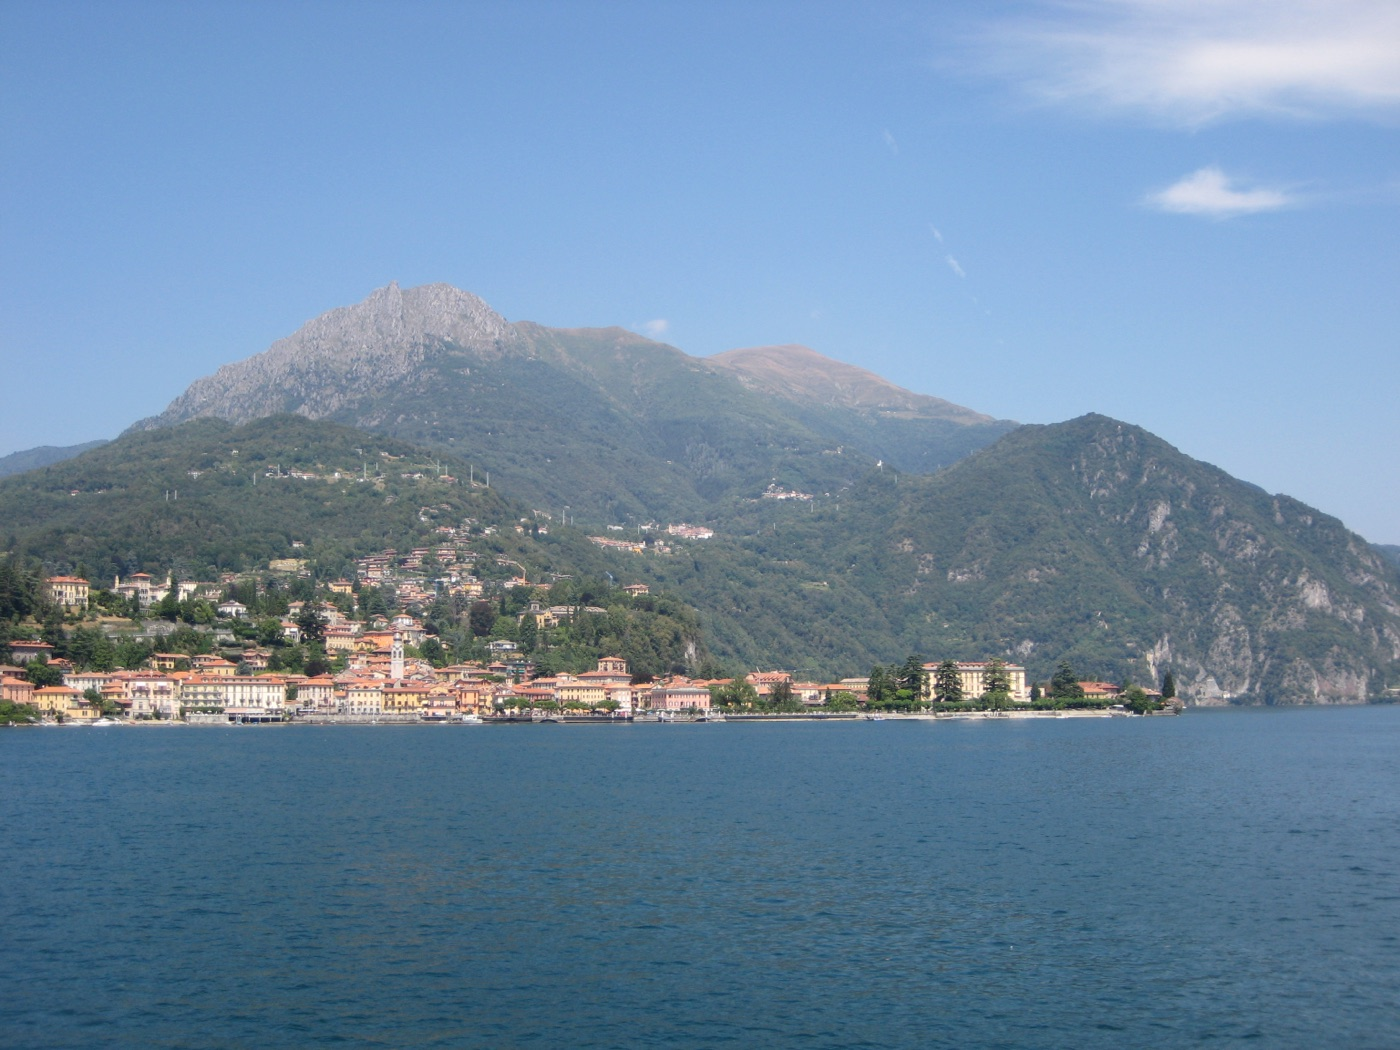
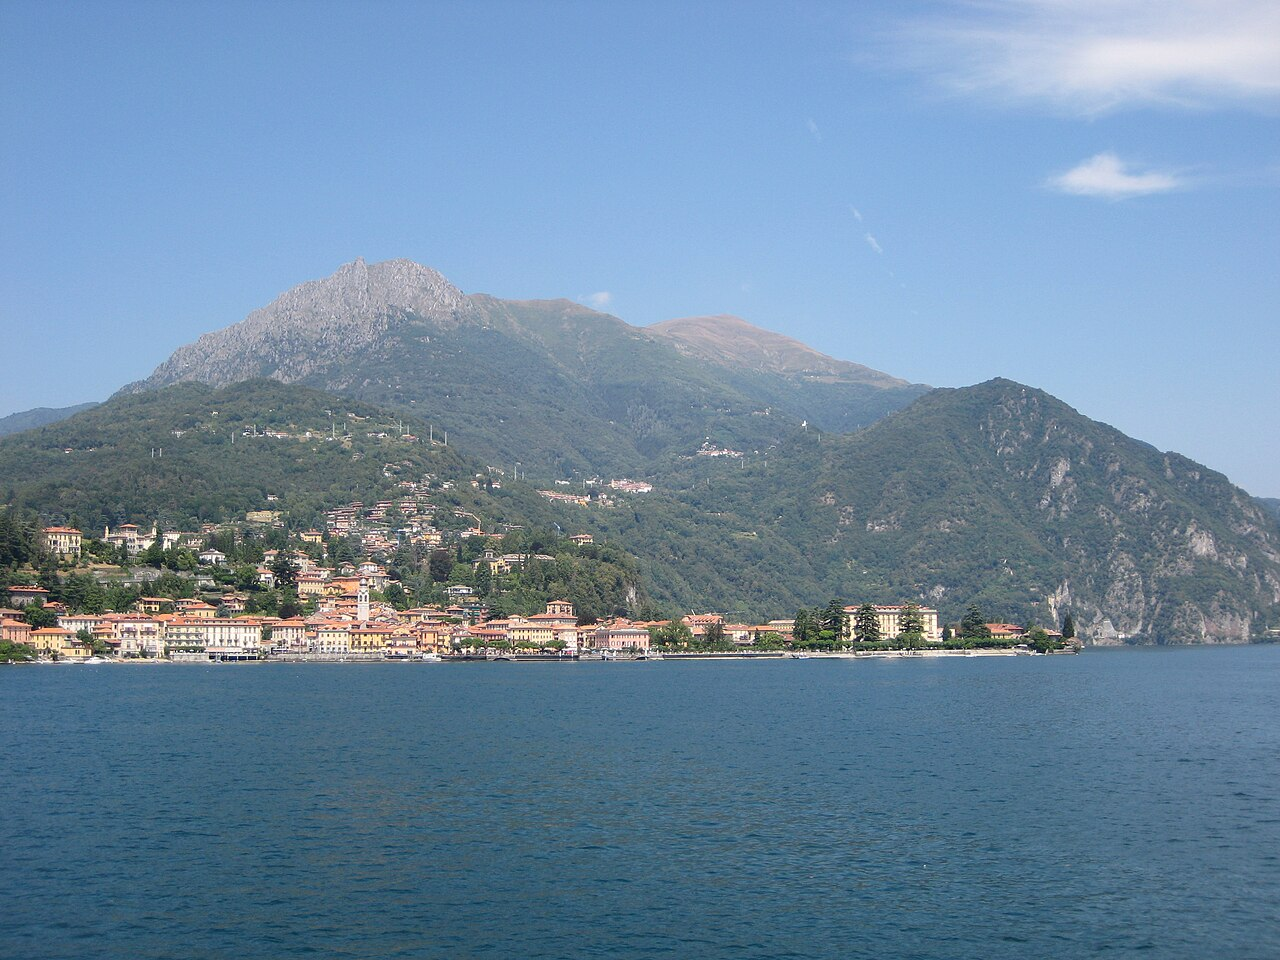
4th experience · attraction photos · drop eyebrow labels · auto-scroll fix
Experiences:
- Added 4th item "Private boat tours" across all 4 locales (matches
  the 4-item carousel on the legacy comoboatrental.it). Added the
  4th photo from /images/experiences/private-tours.jpg.
- Grid is now repeat(4, 1fr) on desktop, repeat(2, 1fr) ≤1100px,
  1fr ≤540px. On phones the .exp-img is capped to aspect-ratio
  16/10 and max-height 220px so full-width 4:3 doesn't overwhelm
  the viewport.

Attraction photos (Wikimedia Commons, 1280px thumbs):
- bellagio.jpg — Sentiero del Viandante (Bellagio from above)
- villa-del-balbianello.jpg — proper Balbianello facade from the water
- argegno.jpg — Argegno panorama (was missing entirely)
- menaggio.jpg — refreshed Menaggio lakefront
- villa-oleandra.jpg — Laglio from Lake Como ferry (the moltrasio-
  laglio attraction; Clooney's Villa Oleandra is in Laglio)
- attractions.ts pointed at the new paths; destinations list now
  falls back to /images/attractions/{pinId}.jpg for pins that don't
  have an attraction page (Argegno).
- CREDITS.md extended with the five new entries.

Section-head index labels removed from the homepage:
- "(01) — Tours", "(02) — Explore the Lake", "(04) — Fleet",
  "(05) — Beyond a Tour", "(06) — Guests" no longer rendered.
- Instagram strip gains a plain "Instagram" h3 in place of the
  "(07) — Follow" eyebrow.
- The indexLabel strings stay in translations for inner pages /
  potential future use; the homepage just stops rendering them.

Destination-list auto-scroll fix:
[…]

diff --git a/app/components/HomePage.tsx b/app/components/HomePage.tsx
@@ -48,12 +48,13 @@ const FLEET_IMGS = ["/images/taxi-boat.jpg", "/images/luxury-caddy.jpg"];
 
 // Experience photos for the "Beyond a Tour" strip — pulled from the
 // legacy comoboatrental.it (under "OUR BOAT EXPERIENCES"). One photo
-// per item; order matches the items in t.experiences.items
-// (weddings → photoshoot → captains).
+// per item; order matches t.experiences.items
+// (weddings → photoshoots → captains → private-tours).
 const EXPERIENCE_IMGS = [
   "/images/experiences/weddings.jpg",
   "/images/experiences/photoshoots.jpg",
   "/images/experiences/captains.jpg",
+  "/images/experiences/private-tours.jpg",
 ];
 
 import instagramManifest from "../../public/instagram-feed.json";
@@ -616,18 +617,40 @@ export default function HomePage({ locale }: { locale: Locale }) {
   }, [locale]);
 
   // When the user is hovering pin-list / attractions, smoothly scroll the
-  // destinations list so the card matching the active pin is centered
-  // vertically. We only auto-scroll the list container (not the page).
+  // destinations list — auto-scroll the active card into view ONLY
+  // when the activation came from the map (pin hover/click), not when
+  // it came from hovering the list itself. Without that guard every
+  // tiny hover over the list re-triggers a scrollBy and the list
+  // jumps around under the cursor.
+  //
+  // We also gate on a deadband: ignore deltas smaller than ~25% of
+  // the container height so a card that's already comfortably in
+  // view doesn't trigger scrolling.
+  const activatedFromMapRef = useRef(false);
   useEffect(() => {
-    if (!userInteracting || !destListRef.current) return;
+    if (!activatedFromMapRef.current || !destListRef.current) return;
+    activatedFromMapRef.current = false;
     const container = destListRef.current;
     const card = container.querySelector<HTMLElement>(`[data-pin-id="${activePin}"]`);
     if (!card) return;
     const containerRect = container.getBoundingClientRect();
     const cardRect = card.getBoundingClientRect();
+    // Only scroll if the card is more than 25% out of the visible
+    // window — that way a card already mostly visible doesn't jump.
+    const isAbove = cardRect.top < containerRect.top + 8;
+    const isBelow = cardRect.bottom > containerRect.bottom - 8;
+    if (!isAbove && !isBelow) return;
     const delta = (cardRect.top + cardRect.height / 2) - (containerRect.top + containerRect.height / 2);
     container.scrollBy({ top: delta, behavior: "smooth" });
-  }, [activePin, userInteracting]);
+  }, [activePin]);
+
+  // Wrap setActivePin so callers can mark "this came from the map"
+  // explicitly. Map markers / pin clicks call setActivePinFromMap,
+  // hover-from-list calls setActivePin directly with no auto-scroll.
+  const setActivePinFromMap = (id: string) => {
+    activatedFromMapRef.current = true;
+    setActivePin(id);
+  };
 
   const fromLabel = locale === "en" ? "From" : locale === "it" ? "Da" : locale === "ru" ? "От" : "من";
 
@@ -729,7 +752,6 @@ export default function HomePage({ locale }: { locale: Locale }) {
         <div className="container-x">
           <div className="section-head reveal">
             <div className="label">
-              <span className="eyebrow">{t.tours.indexLabel}</span>
               <p className="lead">{t.tours.lead}</p>
             </div>
             <div className="title">
@@ -769,7 +791,6 @@ export default function HomePage({ locale }: { locale: Locale }) {
         <div className="container-x">
           <div className="section-head reveal" style={{ marginBottom: 36 }}>
             <div className="label">
-              <span className="eyebrow">{t.explore.indexLabel}</span>
               <p className="lead">{t.explore.lead}</p>
             </div>
             <div className="title">
@@ -827,7 +848,7 @@ export default function HomePage({ locale }: { locale: Locale }) {
                     <LakeComoMap
                       pins={t.map.pins}
                       activeId={activePin}
-                      onActivate={setActivePin}
+                      onActivate={setActivePinFromMap}
                       sectionRef={mapSectionRef}
                       userInteracting={userInteracting}
                     />
@@ -848,7 +869,10 @@ export default function HomePage({ locale }: { locale: Locale }) {
                       const a = attractions.find((x) => x.pinId === pin.id);
                       const href = a ? localePath(locale, `/attractions/${a.slug}`) : "#";
                       const blurb = a?.copy[locale].blurb ?? pin.note;
-                      const thumb = a?.image;
+                      // Fall back to pin-id-based filename for pins
+                      // that don't have an attraction page yet (e.g.
+                      // Argegno) — keeps every card thumbnailed.
+                      const thumb = a?.image ?? `/images/attractions/${pin.id}.jpg`;
                       return (
                         <a
                           key={pin.id}
@@ -892,7 +916,6 @@ export default function HomePage({ locale }: { locale: Locale }) {
         <div className="container-x">
           <div className="section-head reveal">
             <div className="label">
-              <span className="eyebrow">{t.fleet.indexLabel}</span>
               <p className="lead">{t.fleet.lead}</p>
             </div>
             <div className="title">
@@ -938,7 +961,6 @@ export default function HomePage({ locale }: { locale: Locale }) {
       <section className="experiences experiences-condensed" id="experiences">
         <div className="container-x">
           <div className="exp-condensed-head reveal">
-            <span className="eyebrow">{t.experiences.indexLabel}</span>
             <h2 className="display"><RichText text={t.experiences.title} /></h2>
           </div>
           <div className="exp-row">
@@ -967,7 +989,6 @@ export default function HomePage({ locale }: { locale: Locale }) {
         <div className="container-x">
           <div className="section-head reveal" style={{ marginBottom: 36 }}>
             <div className="label">
-              <span className="eyebrow">{t.testimonials.indexLabel}</span>
               <p className="lead">{t.testimonials.lead}</p>
             </div>
             <div className="title">
@@ -1008,7 +1029,7 @@ export default function HomePage({ locale }: { locale: Locale }) {
       <section className="instagram instagram-strip" id="instagram">
         <div className="container-x">
           <div className="ig-strip-head reveal">
-            <span className="eyebrow">{t.instagram.indexLabel}</span>
+            <h3 className="ig-strip-title">Instagram</h3>
             <a className="ig-strip-cta" href={INSTAGRAM_URL} target="_blank" rel="noopener noreferrer">
               {t.instagram.cta} <span className="arrow">→</span>
             </a>

diff --git a/app/translations.ts b/app/translations.ts
@@ -402,6 +402,7 @@ export const translations: Record<Locale, Translation> = {
         { title: "Weddings & special occasions",  desc: "Weddings, proposals, anniversaries by boat. Champagne on board and bespoke service for unforgettable moments on the water." },
         { title: "Photoshoots & productions",     desc: "Editorial, wedding and commercial shoots aboard our wooden boats, Villa d'Este, Villa Balbianello, golden hour on the lake." },
         { title: "Local captains as concierges",  desc: "Certified, multilingual captains who know the lake like a backyard, restaurant tips, hidden coves, perfect timing with the wind." },
+        { title: "Private boat tours",            desc: "Half-day and full-day private charters on classic wooden boats. Bellagio, Balbianello, Varenna at your own pace, with a captain who knows every cove." },
       ],
     },
     testimonials: {
@@ -646,6 +647,7 @@ export const translations: Record<Locale, Translation> = {
         { title: "Matrimoni e occasioni speciali", desc: "Matrimoni, proposte, anniversari in barca. Champagne a bordo e servizio personalizzato per momenti indimenticabili sull'acqua." },
         { title: "Servizi fotografici e produzioni", desc: "Riprese editoriali, di matrimonio e commerciali a bordo delle nostre barche in legno, Villa d'Este, Villa Balbianello, ora dorata sul lago." },
         { title: "Skipper come concierge",         desc: "Skipper certificati e multilingue che conoscono il lago come il proprio giardino, consigli ristoranti, calette nascoste, tempi perfetti con il vento." },
+        { title: "Tour privati in barca",          desc: "Charter privati di mezza giornata o giornata intera su barche classiche in legno. Bellagio, Balbianello, Varenna al tuo ritmo, con uno skipper che conosce ogni caletta." },
       ],
     },
     testimonials: {
@@ -890,6 +892,7 @@ export const translations: Record<Locale, Translation> = {
         { title: "Свадьбы и особые случаи",   desc: "Свадьбы, предложения, юбилеи на лодке. Шампанское на борту и индивидуальный сервис для незабываемых моментов на воде." },
         { title: "Фотосъёмки и производство", desc: "Редакционные, свадебные и коммерческие съёмки на наших деревянных лодках, Вилла д'Эсте, Вилла Бальбьянелло, золотой час на озере." },
         { title: "Капитаны как консьержи",    desc: "Сертифицированные многоязычные капитаны, знающие озеро как свой двор, рестораны, скрытые бухты, идеальное время с ветром." },
+        { title: "Частные туры на лодке",     desc: "Частные чартеры на полдня и целый день на классических деревянных лодках. Белладжо, Бальбьянелло, Варенна в вашем темпе, с капитаном, знающим каждую бухту." },
       ],
     },
     testimonials: {
@@ -1134,6 +1137,7 @@ export const translations: Record<Locale, Translation> = {
         { title: "حفلات الزفاف والمناسبات الخاصة", desc: "حفلات زفاف، طلبات زواج، ذكرى سنوية على القارب. شامبانيا على المتن وخدمة مخصصة للحظات لا تُنسى على الماء." },
         { title: "جلسات التصوير والإنتاج",         desc: "تصوير تحريري وأعراس وتجاري على متن قواربنا الخشبية, فيلا ديستي، فيلا بالبيانيلو، الساعة الذهبية على البحيرة." },
         { title: "قباطنة كأمناء استقبال",          desc: "قباطنة معتمدون يتحدثون عدة لغات يعرفون البحيرة كحديقتهم, توصيات مطاعم، خلجان مخفية، توقيت مثالي مع الريح." },
+        { title: "جولات قارب خاصة",                desc: "تأجير قارب خاص لنصف يوم أو يوم كامل على قوارب خشبية كلاسيكية. بيلاجيو، بالبيانيلو، فارينا بإيقاعك الخاص، مع قبطان يعرف كل خليج." },
       ],
     },
     testimonials: {

diff --git a/app/content/attractions.ts b/app/content/attractions.ts
@@ -159,7 +159,7 @@ export const attractions: Attraction[] = [
   {
     slug: "bellagio",
     pinId: "bellagio",
-    image: "/images/bellagio.jpg",
+    image: "/images/attractions/bellagio.jpg",
     toursThatVisit: ["top-villas-half-day", "bespoke-full-day"],
     copy: {
       en: {
@@ -245,7 +245,7 @@ export const attractions: Attraction[] = [
   {
     slug: "villa-del-balbianello",
     pinId: "balbianello",
-    image: "/images/balbianello.jpg",
+    image: "/images/attractions/villa-del-balbianello.jpg",
     toursThatVisit: ["balbianello-nesso", "top-villas-half-day", "bespoke-full-day"],
     copy: {
       en: {
@@ -846,8 +846,12 @@ export const attractions: Attraction[] = [
   // ─── Moltrasio / Carate Urio / Laglio (Clooney area) ─────────────
   {
     slug: "moltrasio-laglio",
+    // Iconic image for this attraction is George Clooney's Villa
+    // Oleandra on the Laglio waterfront — used to be a generic hero
+    // shot, now a Wikipedia/Commons photo of Laglio from the lake
+    // ferry (CC-BY-SA, credit in /images/attractions/CREDITS.md).
     pinId: "oleandra",
-    image: "/images/hero-1.jpg",
+    image: "/images/attractions/villa-oleandra.jpg",
     toursThatVisit: ["highlights-1h", "balbianello-nesso", "top-villas-half-day", "bespoke-full-day"],
     copy: {
       en: {

diff --git a/app/globals.css b/app/globals.css
@@ -1125,10 +1125,17 @@ html[dir="rtl"] .boat-img .badge { left: auto; right: 18px; }
 }
 .exp-row {
   display: grid;
-  grid-template-columns: repeat(3, 1fr);
-  gap: clamp(28px, 3vw, 48px);
+  grid-template-columns: repeat(4, 1fr);
+  gap: clamp(20px, 2.5vw, 36px);
 }
-@media (max-width: 900px) { .exp-row { grid-template-columns: 1fr; } }
+@media (max-width: 1100px) { .exp-row { grid-template-columns: repeat(2, 1fr); } }
+@media (max-width: 540px)  {
+  .exp-row { grid-template-columns: 1fr; gap: 28px; }
+  /* On phones cap the image height so the experience card stays
+     compact — full-width 4:3 was overwhelming the viewport. */
+  .exp-card .exp-img { aspect-ratio: 16 / 10; max-height: 220px; }
+  .exp-card .exp-img img { object-position: center; }
+}
 .exp-card {
   display: flex;
   flex-direction: column;
@@ -2904,6 +2911,13 @@ html[dir="rtl"] .attr-adj a:hover.prev .arr { transform: translateX(4px); }
   gap: 16px;
   margin-bottom: 20px;
   flex-wrap: wrap;
+}
+.ig-strip-title {
+  font-family: var(--display);
+  font-size: clamp(22px, 2vw, 28px);
+  font-weight: 500;
+  margin: 0;
+  color: var(--ink);
 }
 .ig-strip-cta {
   font-family: var(--mono);

diff --git a/public/images/attractions/CREDITS.md b/public/images/attractions/CREDITS.md
@@ -18,6 +18,10 @@ needed.
 | `nesso.jpg` | [Cascata Nesso, 01.06.2019](https://commons.wikimedia.org/wiki/File:Cascata_Nesso,_01.06.2019_1.jpg) | Wikimedia |
 | `menaggio.jpg` | [Menaggio Lago di Como](https://commons.wikimedia.org/wiki/File:Menaggio_Lago_di_Como.jpg) | Wikimedia |
 | `lecco.jpg` | [19LC12.jpg](https://commons.wikimedia.org/wiki/File:19LC12.jpg) | Wikimedia |
+| `bellagio.jpg` | [Sentiero del Viandante (Bellagio)](https://commons.wikimedia.org/wiki/File:Sentiero_del_Viandante_DSC_6340_(14020554463).jpg) | Wikimedia |
+| `villa-del-balbianello.jpg` | [06VillaBalbianello.jpg](https://commons.wikimedia.org/wiki/File:06VillaBalbianello.jpg) | Wikimedia |
+| `argegno.jpg` | [Argegno-Panorama.JPG](https://commons.wikimedia.org/wiki/File:Argegno-Panorama.JPG) | Wikimedia |
+| `villa-oleandra.jpg` | [Laglio from Lake Como ferry](https://commons.wikimedia.org/wiki/File:Laglio_from_Lake_Como_ferry.jpg) | Wikimedia · *Used for the moltrasio-laglio attraction (Clooney's Villa Oleandra is in Laglio).* |
 
 These photos are stand-ins. Replace them with Como Boat Rental's
 own photography when available (preferably shots from the water,
